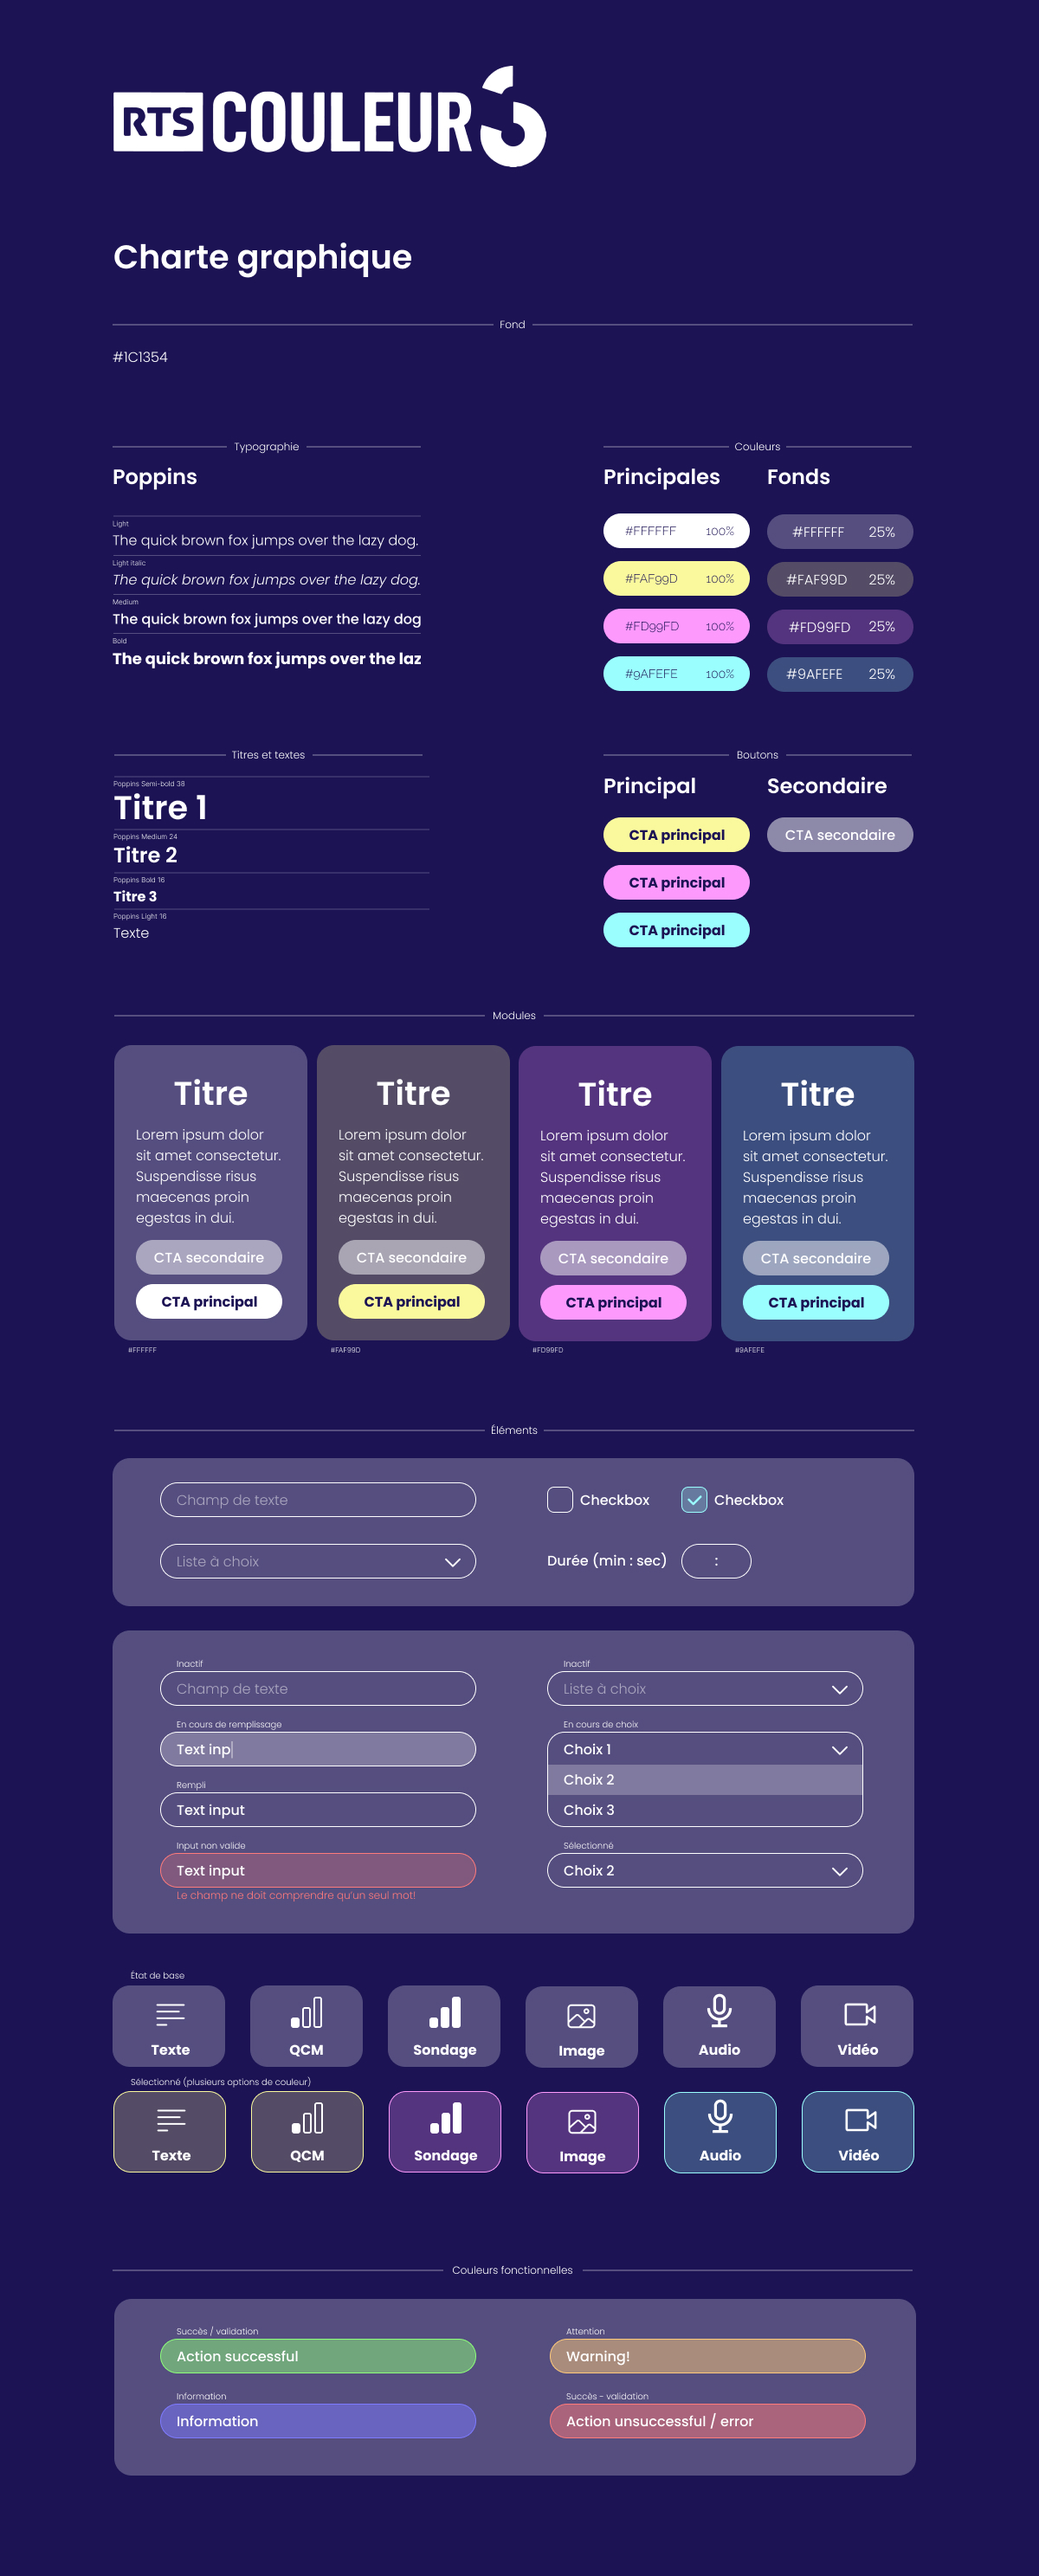
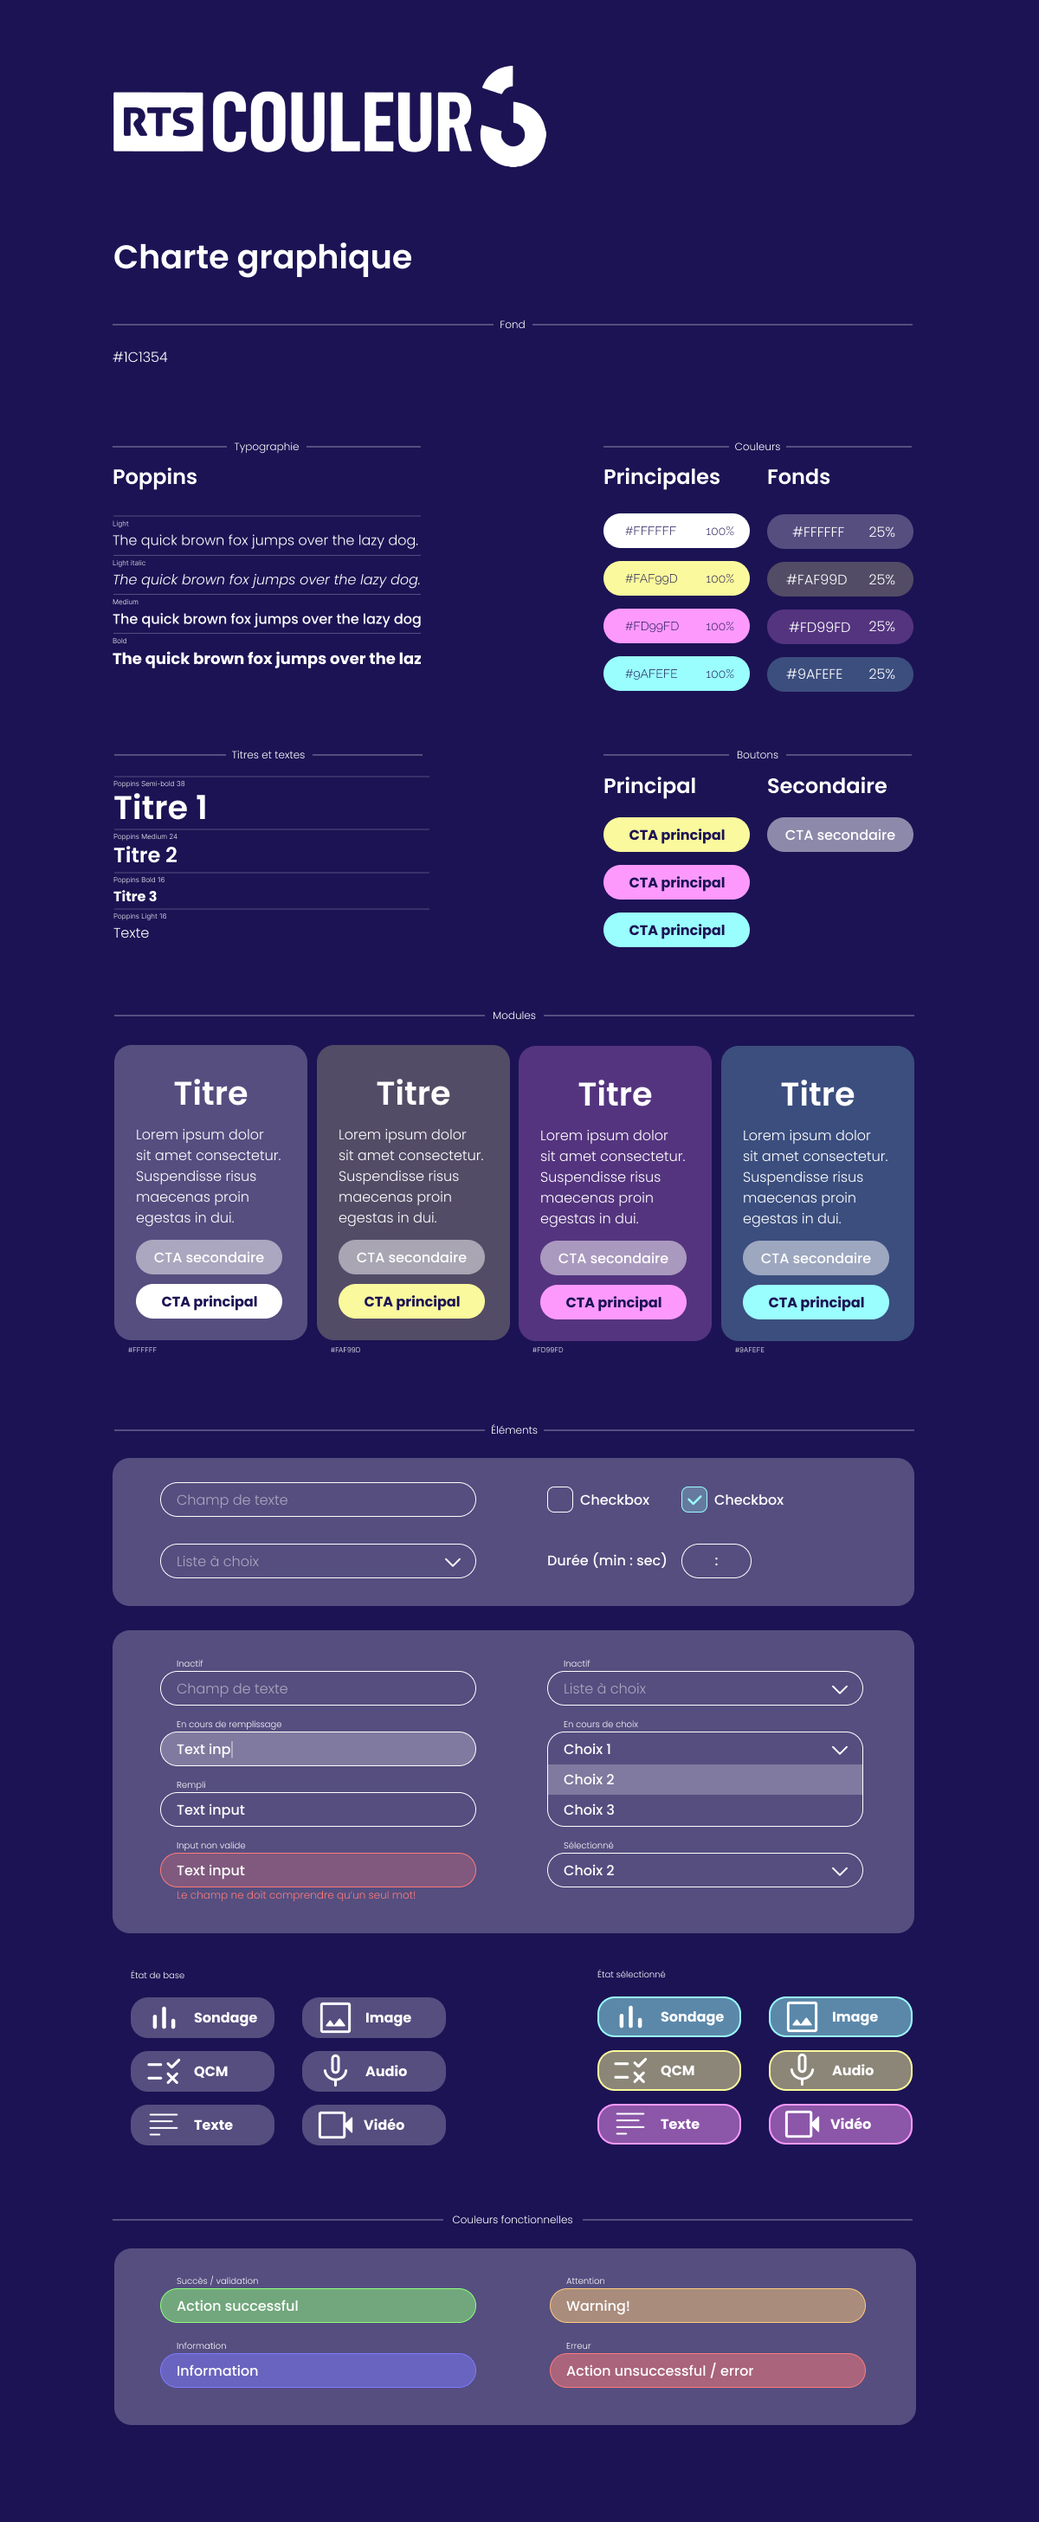
Modification de la charte graphique (modification image et texte)

diff --git a/docs/Wiki/UI/charteGraphique.md b/docs/Wiki/UI/charteGraphique.md
@@ -1,8 +1,9 @@
-### Figma
+## Figma
+
 Lien vers le fichier Figma contenant les différentes étapes du graphisme:
 https://www.figma.com/file/SIaos14aP3m9HE7jwyVLHs/Graphisme?type=design&node-id=0%3A1&t=vKarxY3YRis3zh5t-1
 
-## Moordboard
+## Moodboard
 
 Afin de créer notre Moodboard, nous sommes partis de la page web actuelle de Couleurs 3. 
 Dans un premier temps, nous avons rassemblé les différents éléments graphique ainsi que les typographies utilisées. Suite à cette étape, nous avons extrait les couleurs principales utilisées par Couleur3, ainsi que les diverses typographies et les types d'information qu'elles décrivent. Nous avons également défini quelques mots-clés qui nous permettent de décrire l'univers et la personnalité de Couleur 3. 
@@ -11,7 +12,7 @@ Sur la base de ces premières réflexions, nous avons établi un Moodboard, comp
 
 ![[moodboard.png]]
 
-## Charte Graphique
+## Concept
 
 Sur la base du Moodboard, nous avons établi notre charte graphique.
 
@@ -21,5 +22,7 @@ Nous avons décidé d'utiliser un fond foncé, dans le but de limiter la sollici
 
 En plus des couleurs graphiques, nous avons également défini quatre couleurs fonctionnelles. Nous avons également effectué des vérifications de lisibilité pour les différentes formes de daltonisme, qui nous ont permis d'adapter les couleurs sélectionnées, notamment les fonctionnelles. Cela nous a également confirmé que les contrastes utilisés sont effectivement bien lisibles. Les couleurs "graphiques" n'ayant pas d'autre but que l'esthétisme, il est moins grave qu'elles se différencient moins aux yeux des personnes daltoniennes. 
 
+
+## Charte graphique
 
 ![[charteGraphique.jpg]]
